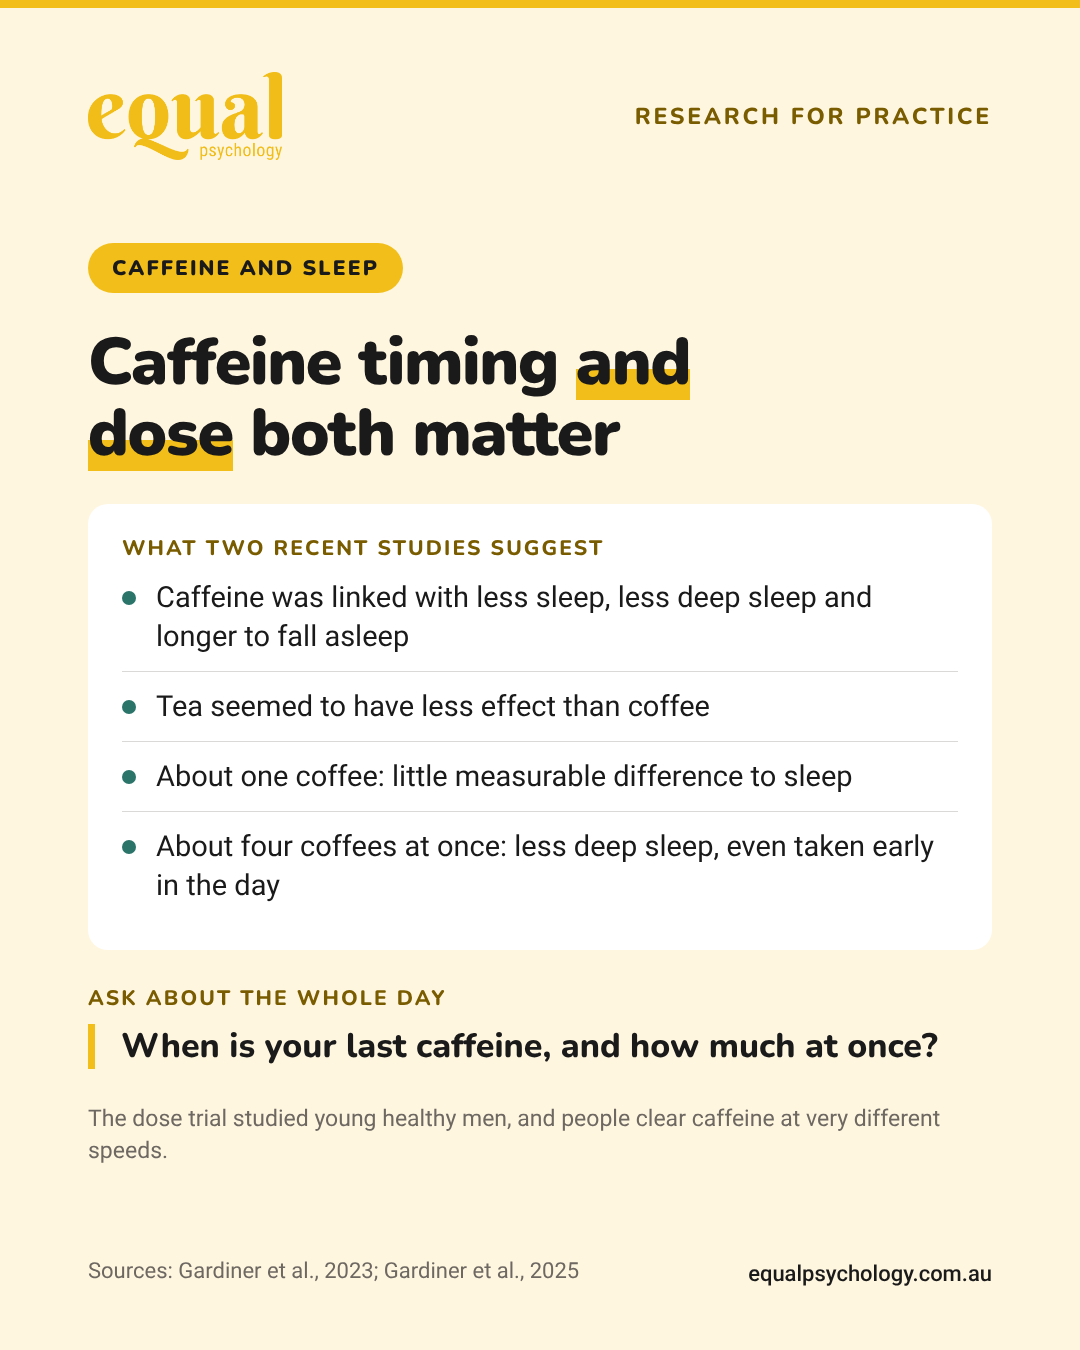
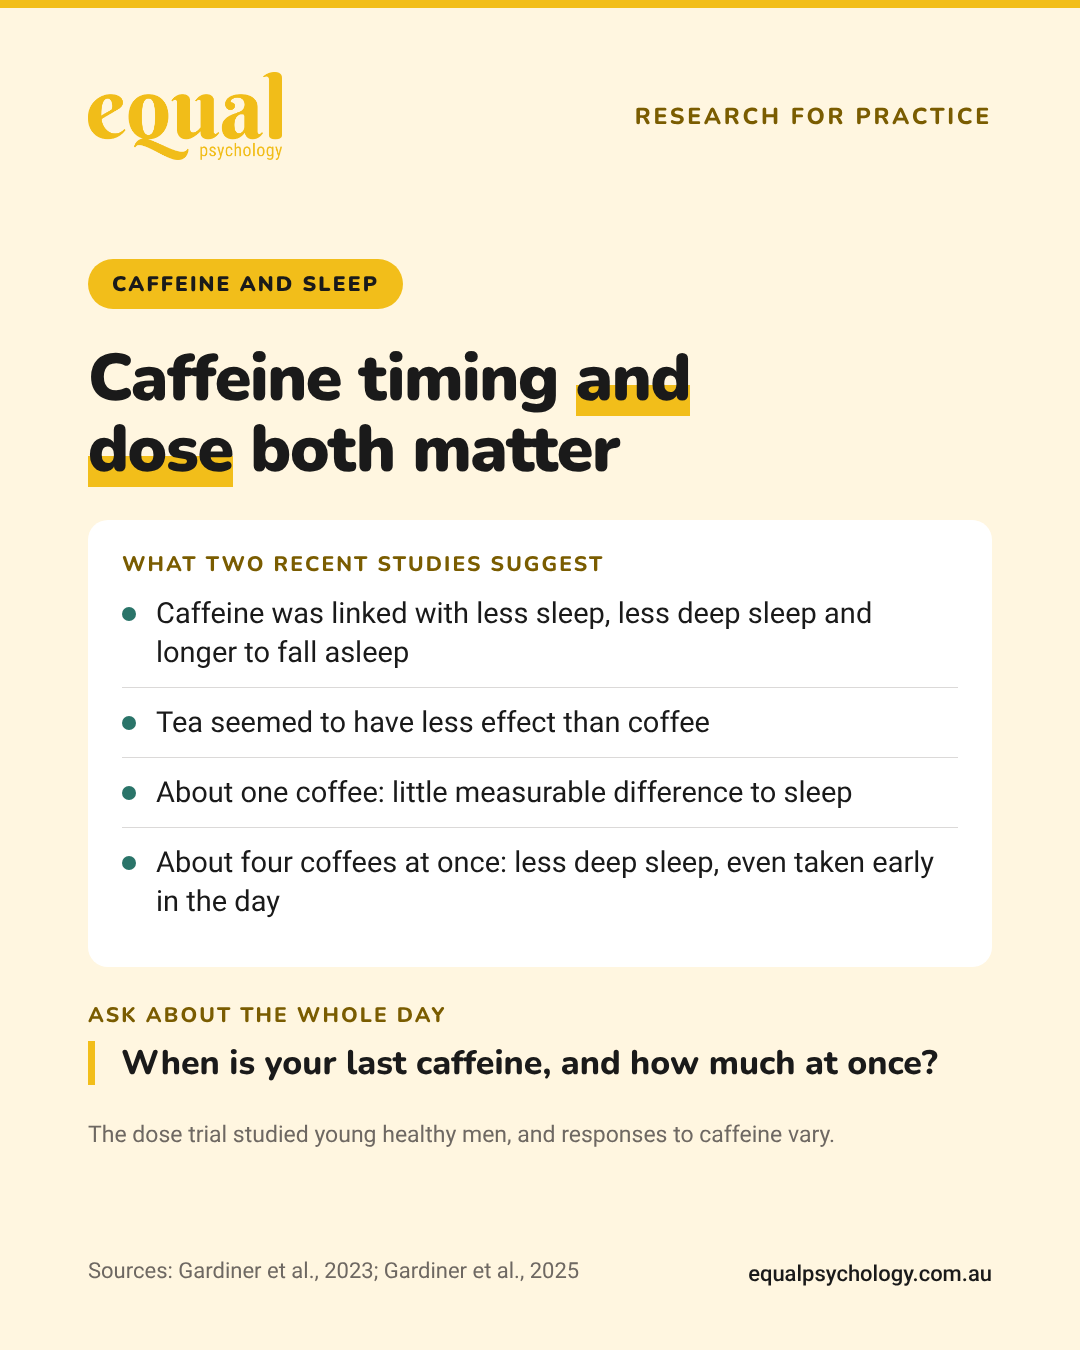
WIP: audit must-fix corrections (not yet reviewed or approved)
Rebuilt LinkedIn graphics for 2, 3, 17, 24 Nov and 23 Feb; other lanes in progress.

Claude-Session: https://claude.ai/code/session_01PZVGLP5J3BHdSUAGKuZxXq

Changed region(s): [[0.0611, 0.1556, 0.9167, 0.8711]]

diff --git a/tools/linkedin/build.py b/tools/linkedin/build.py
@@ -70,6 +70,15 @@ th,td{{text-align:left;vertical-align:top}}
 .tbl .r div{{font-size:27px;line-height:1.35;padding:22px 28px}}
 .tbl .r div:first-child{{color:{WG}}}
 .tbl .r div:last-child{{font-weight:500;border-left:1.5px solid rgba(110,104,98,.2)}}
+.t3{{border-radius:20px;overflow:hidden;background:{t['card']};color:{t['ctext']}}}
+.t3 .h,.t3 .r{{display:grid;grid-template-columns:270px 1fr 1fr}}
+.t3 .h div{{font-family:'Nunito';font-weight:900;font-size:27px;padding:22px 26px}}
+.t3 .r{{border-top:1.5px solid rgba(110,104,98,.2)}}
+.t3 .r div{{font-size:27px;line-height:1.35;padding:22px 26px}}
+.t3 .r div:first-child{{font-family:'Nunito';font-weight:800;font-size:20px;letter-spacing:.1em;text-transform:uppercase;color:{TL};line-height:1.4;padding-top:27px}}
+.t3 .r div+div{{border-left:1.5px solid rgba(110,104,98,.2)}}
+.cols .card{{padding:28px 30px}}
+.cols .row{{font-size:28px}}
 """
 
 def page(name, theme, blocks, sources):
@@ -90,6 +99,16 @@ def page(name, theme, blocks, sources):
             body += (f"<div class='tbl'><div class='h'><div style='background:{CR};color:{NB}'>{h1_}</div>"
                      f"<div style='background:{Y};color:{NB}'>{h2_}</div></div>"
                      + ''.join(f"<div class='r'><div>{l}</div><div>{r}</div></div>" for l, r in rows) + "</div>")
+        elif kind == 'table3':
+            h1_, h2_, rows = a
+            body += (f"<div class='t3'><div class='h'><div></div><div style='background:{CR};color:{TL}'>{h1_}</div>"
+                     f"<div style='background:{Y};color:{NB}'>{h2_}</div></div>"
+                     + ''.join(f"<div class='r'><div>{l}</div><div>{m}</div><div>{r}</div></div>" for l, m, r in rows) + "</div>")
+        elif kind == 'cols':
+            body += "<div class='cols'>" + ''.join(
+                f"<div class='card'><div class='lab'>{lab}</div><div class='list'>"
+                + ''.join(f"<div class='row'><div class=dot></div><div>{x}</div></div>" for x in items) + "</div></div>"
+                for lab, items in a[0]) + "</div>"
         elif kind == 'q': body += f"<div><div class='qlab'>{a[0]}</div><div class='q'>{html.escape(a[1])}</div></div>"
         elif kind == 'line': body += f"<div class='line'>{a[0]}</div>"
         elif kind == 'note': body += f"<div class='note'>{a[0]}</div>"
@@ -117,11 +136,11 @@ page('2026-11-02-in-practice-10', 'butter', [
   ('h1', 'Being less harsh is not the same as *being kinder*'),
   ('list', 'What the issue covers', [
      '<b>Two levers, not one.</b> The harsh side of self-compassion sits closer to distress',
-     '<b>When kindness feels threatening</b> particularly for people who are highly self-critical',
+     '<b>What to listen for:</b> two forms of the inner critic',
      '<b>Self-criticism is changeable</b>',
      '<b>Three consult questions</b> and when to consider a referral'], 'num'),
   ('line', 'Free issue and patient handout on our referrers page.'),
-], 'Sources: Muris & Petrocchi, 2017; Kirby et al., 2019; Chio et al., 2021; Wakelin et al., 2022')
+], 'Sources: Buric et al., 2026; Löw et al., 2020; Wakelin et al., 2022; Millard et al., 2023')
 
 page('2026-11-05-safety-behaviours', 'cream', [
   ('pill', 'Anxiety'),
@@ -154,9 +173,9 @@ page('2026-11-17-perimenopause', 'butter', [
   ('pill', 'Perimenopause'),
   ('h1', 'Mental health changes can begin in *perimenopause*'),
   ('table', 'Common assumption', 'What the evidence points to', [
-     ('The mental health side of menopause comes later, after the hot flushes', 'Mood, anxiety and cognitive changes can arrive years before hot flushes'),
+     ('The mental health side of menopause comes later, after the hot flushes', 'Changes in mood, anxiety and concentration can be part of the transition itself'),
      ('It is mostly about falling oestrogen', 'How unpredictably oestrogen fluctuates appears to matter')]),
-  ('line', 'Midlife brain fog is common and, in almost all cases, is not an early sign of dementia.'),
+  ('line', 'Problems with memory and concentration are commonly reported around menopause, and some may ease afterwards.'),
   ('q', 'Whatever your role', 'Ask gently and directly, and ask about sleep alongside mood.'),
 ], 'Sources: Davis et al., 2023; Badawy et al., 2024')
 
@@ -191,4 +210,34 @@ page('2026-12-01-in-practice-11', 'teal', [
      '<b>Three consult questions</b> and when to consider a referral'], 'num'),
   ('line', 'Free issue and patient handout on our referrers page. Lifeline: <span style="white-space:nowrap">13 11 14</span>.'),
 ], 'Sources: Carr et al., 2014; Aoun et al., 2018; Avis et al., 2025; Killikelly et al., 2025')
+page('2026-11-03-demoralization', 'teal', [
+  ('pill', 'Low mood'),
+  ('h1', 'Demoralization or depression? What *tells them apart*'),
+  ('table3', 'Demoralization', 'Depression', [
+     ('Hallmark', 'Feeling unable to cope or see a way forward', 'Loss of pleasure in things once enjoyed'),
+     ('Pleasure', 'Usually still present', 'Usually fades'),
+     ('Concentration, energy, sleep', 'Usually absent', 'May be present')]),
+  ('line', 'The two can occur separately or together. The distinction is a prompt to look closer.'),
+], 'Source: de Figueiredo, 2026')
+
+page('2026-11-24-adhd-medication-stress', 'teal', [
+  ('pill', 'ADHD and stress'),
+  ('h1', 'Stress and ADHD draw on the *same brain system*'),
+  ('cols', [
+     ('Stimulant medication supports', ['Attention', 'Holding back a response', 'Working memory']),
+     ('It does not', ['Help emotion regulation as much as attention', 'Reduce workload or pressure'])]),
+  ('line', 'When things slip, look at what has changed in the load.'),
+], 'Sources: Isfandnia et al., 2024; Lenzi et al., 2018')
+
+page('2027-02-23-caffeine-dose-timing', 'butter', [
+  ('pill', 'Caffeine and sleep'),
+  ('h1', 'Caffeine timing *and dose* both matter'),
+  ('list', 'What two recent studies suggest', [
+     'Caffeine was linked with less sleep, less deep sleep and longer to fall asleep',
+     'Tea seemed to have less effect than coffee',
+     'About one coffee: little measurable difference to sleep',
+     'About four coffees at once: less deep sleep, even taken early in the day']),
+  ('q', 'Ask about the whole day', 'When is your last caffeine, and how much at once?'),
+  ('note', 'The dose trial studied young healthy men, and responses to caffeine vary.'),
+], 'Sources: Gardiner et al., 2023; Gardiner et al., 2025')
 print('built')
